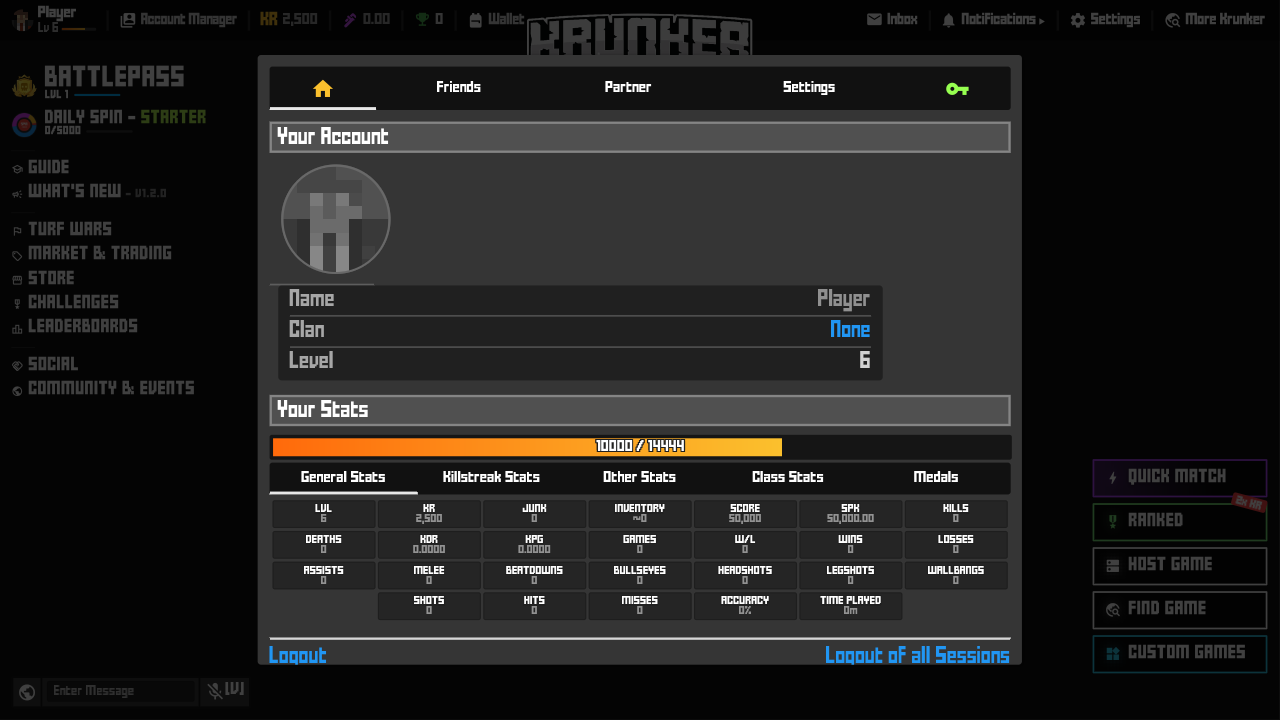
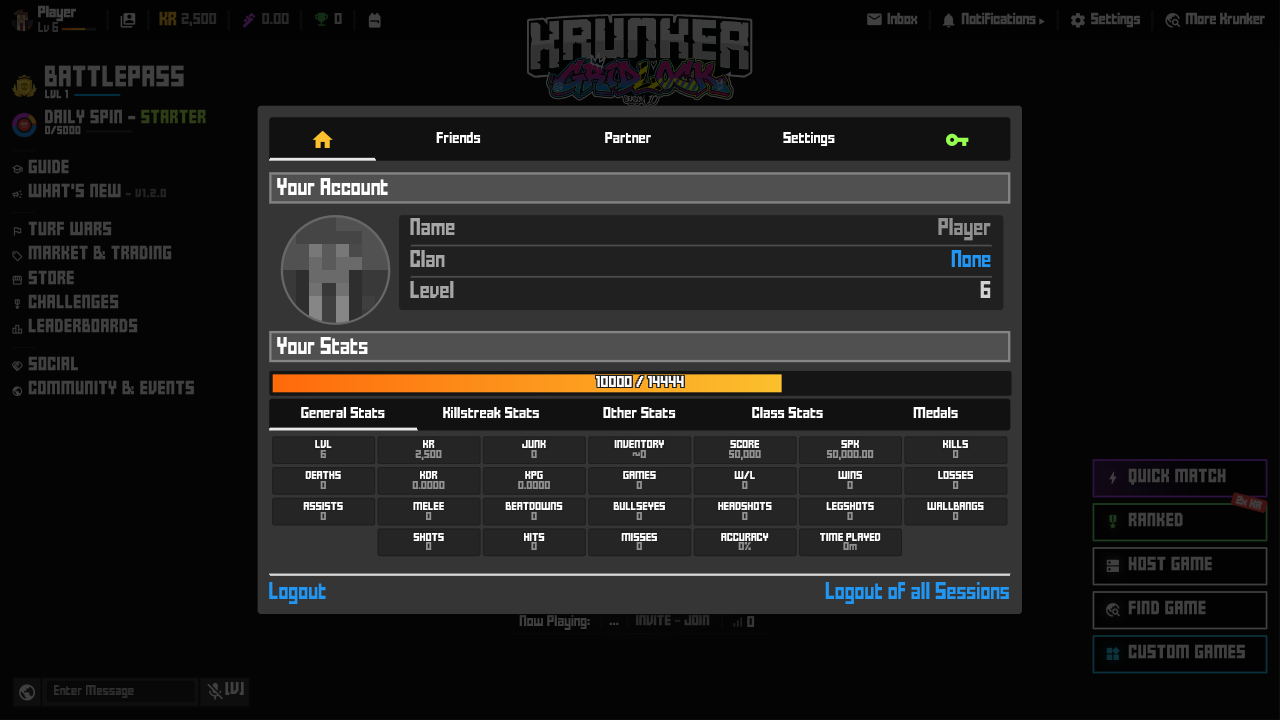
Account window: no rule under the picture; the name box beside the picture
The native account window (Your Account, window 5) had an empty status
line under the picture, #pfpStatus, styled as a settName: a 3 px rule
with a 181 px width. As a block it also pushed the Name / Clan / Level
box below the picture, inset at the panel's left, and the rule sat under
the picture where v7.1.4 and v10 have neither. The status line is now
hidden while it has no text; avatar_ui.c's set_status shows it (block)
when a message is set and hides it again when the text is empty.

With the line gone the Name / Clan / Level box sits beside the picture
and runs to the panel's right edge (1004 px content plus its 20 px
padding, the v7.1.4 / v10 markup's own width). It is no wider than v10's
box. v7.1.4's win-profile-acc-1920 capture has the same box beside the
picture, 11 px inside the panel's right edge.

KN-owned reference: doc/ref/krunknative/kn-account-native-default.png
is regenerated from this render (the picture moved up with the window,
so the old reference showed the rule). Its default-picture region
rect moves from y 162 to y 214, where the picture now sits; the
kn-account-kio-default reference has the same 280,214 box. Both
regions pass. The reference was recompressed losslessly (pixels
unchanged).

Changed region(s): [[0.1875, 0.0611, 0.8125, 0.9472], [0.0938, 0.0, 0.4062, 0.0306]]

diff --git a/client/src/ui/account_ui.c b/client/src/ui/account_ui.c
@@ -2309,7 +2309,9 @@ static char *gen_account(void) {
         sb_append(&sb, "<div class='setHed' style='margin-top:10px;margin-bottom:20px;'>Your Account</div>");
         sb_append(&sb, "<div id='profilePicM' class='blurred'><img style='width: inherit;height: inherit;border-radius: inherit;' loading='lazy' src='textures/classes/icon_0.png'><a class='pfpAction' onmouseenter='playTick(0.1)' onclick='knPfpPick();'>");
         sb_append(&sb, I18N("windows.profile.picture", "Change Picture"));
-        sb_append(&sb, "</a></div><div id='pfpStatus' class='settName' style='width:181px;font-size:13px;margin-top:6px'></div>");
+        // The upload status line (avatar_ui.c set_status) is hidden until it has text: an empty settName drew
+        // a rule under the picture and, as a block, pushed the name box below it (v7.1.4 / v10 have neither).
+        sb_append(&sb, "</a></div><div id='pfpStatus' style='display:none;width:181px;font-size:13px;margin-top:6px;color:rgba(255,255,255,0.6)'></div>");
         sb_append(&sb, "<div class='setBodH' style='display:inline-block;padding-top:10px;vertical-align:top;width:1004px;margin-left:15px;margin-top:0px;'><div class='settName' style='width:100%;margin-top:0px'>");
         sb_append(&sb, I18N("generic.name", "Name"));
         if (player_names_hidden()) sb_append(&sb, "<a class='floatR'>"); // no profile link while names are hidden (the real account's)

diff --git a/client/src/ui/avatar_ui.c b/client/src/ui/avatar_ui.c
@@ -89,6 +89,7 @@ static void set_status(const char *text) {
     HtmlElem el = html_dom_by_id("pfpStatus");
     if (!el) return;
     html_dom_set_text(el, text ? text : "");
+    html_dom_set_style(el, "display", text && text[0] ? "block" : "none"); // hidden while empty (account_ui.c)
 }
 
 // The brain's error name -> what the player is told (kn_brain: avatar.c).
